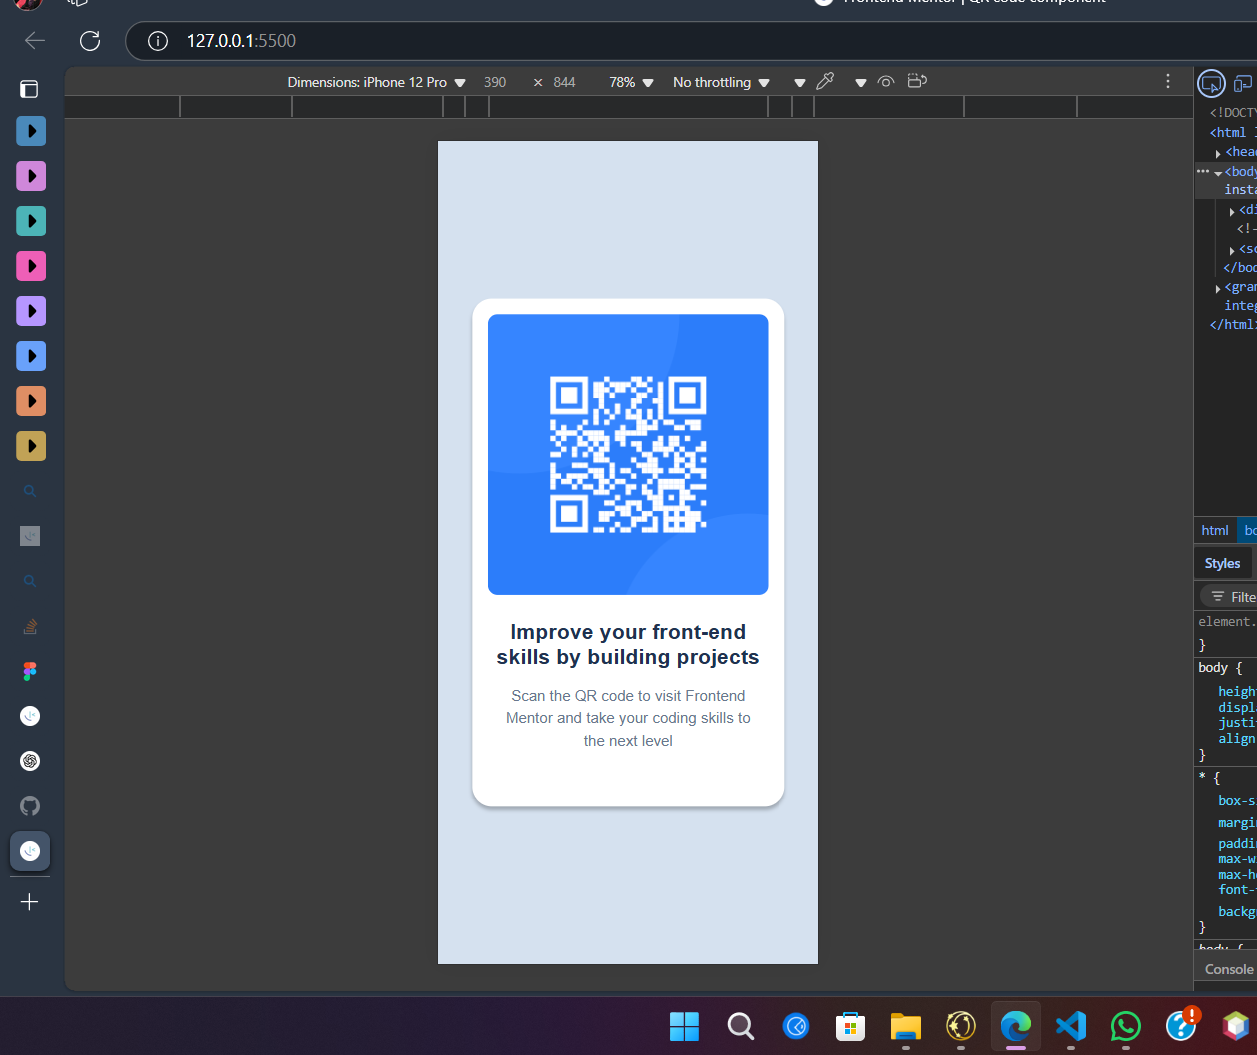
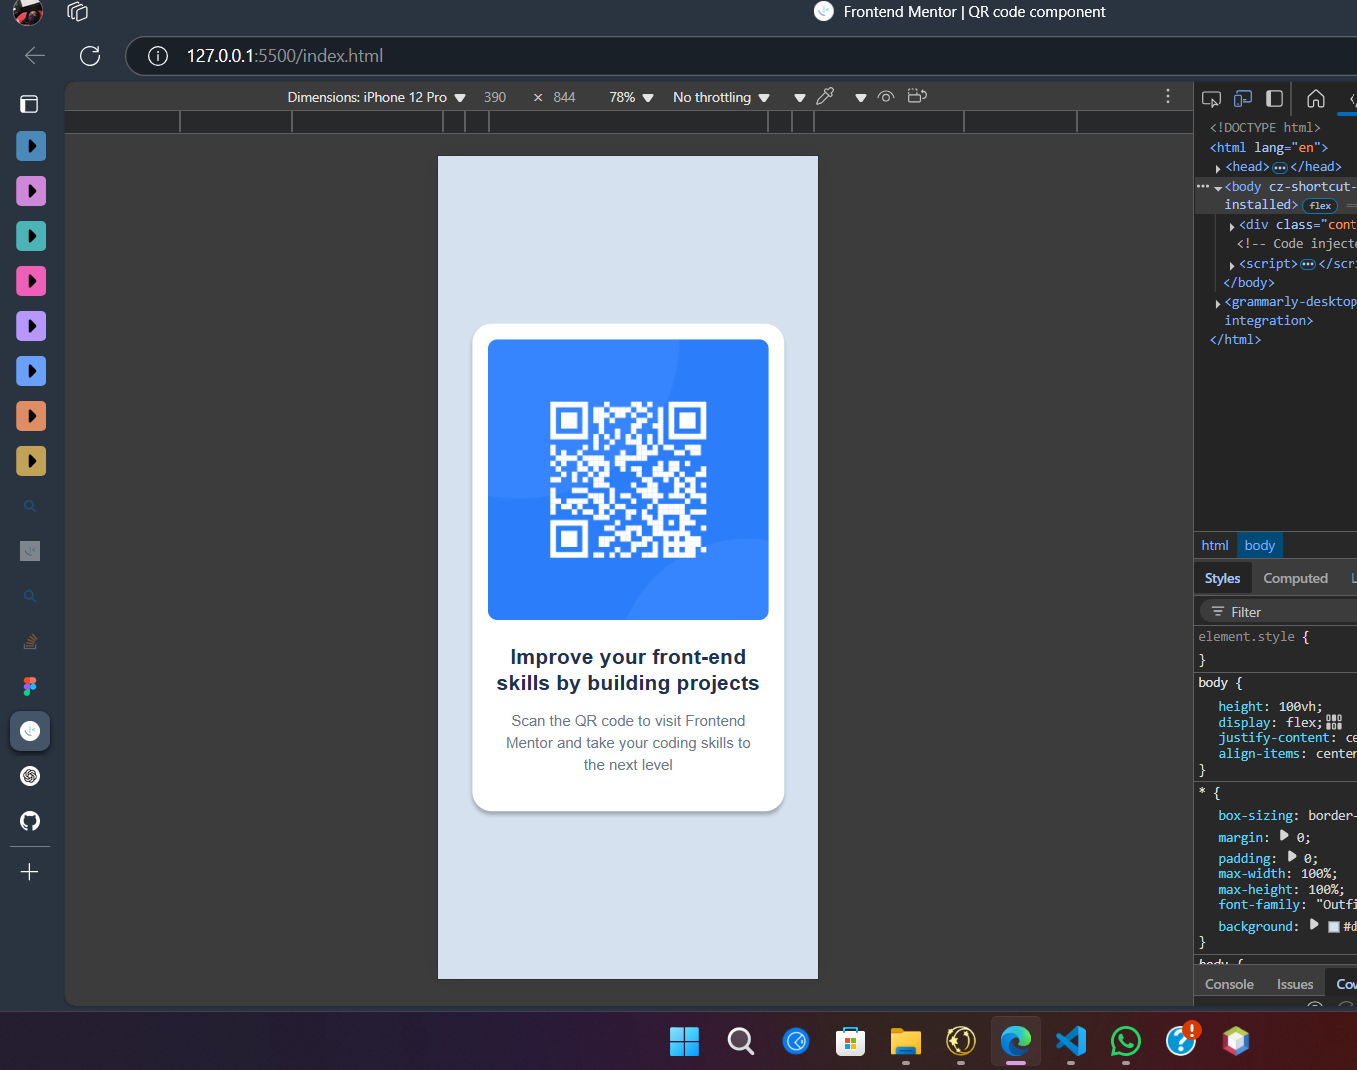
update the style

diff --git a/style.css b/style.css
@@ -43,7 +43,7 @@ body {
 
 .sub-title {
   background-color: transparent;
-  padding: 0 1rem 40px;
+  padding: 0 1rem 20px;
   margin-top: 1rem;
   font-size: 15px;
   font-weight: 400;
